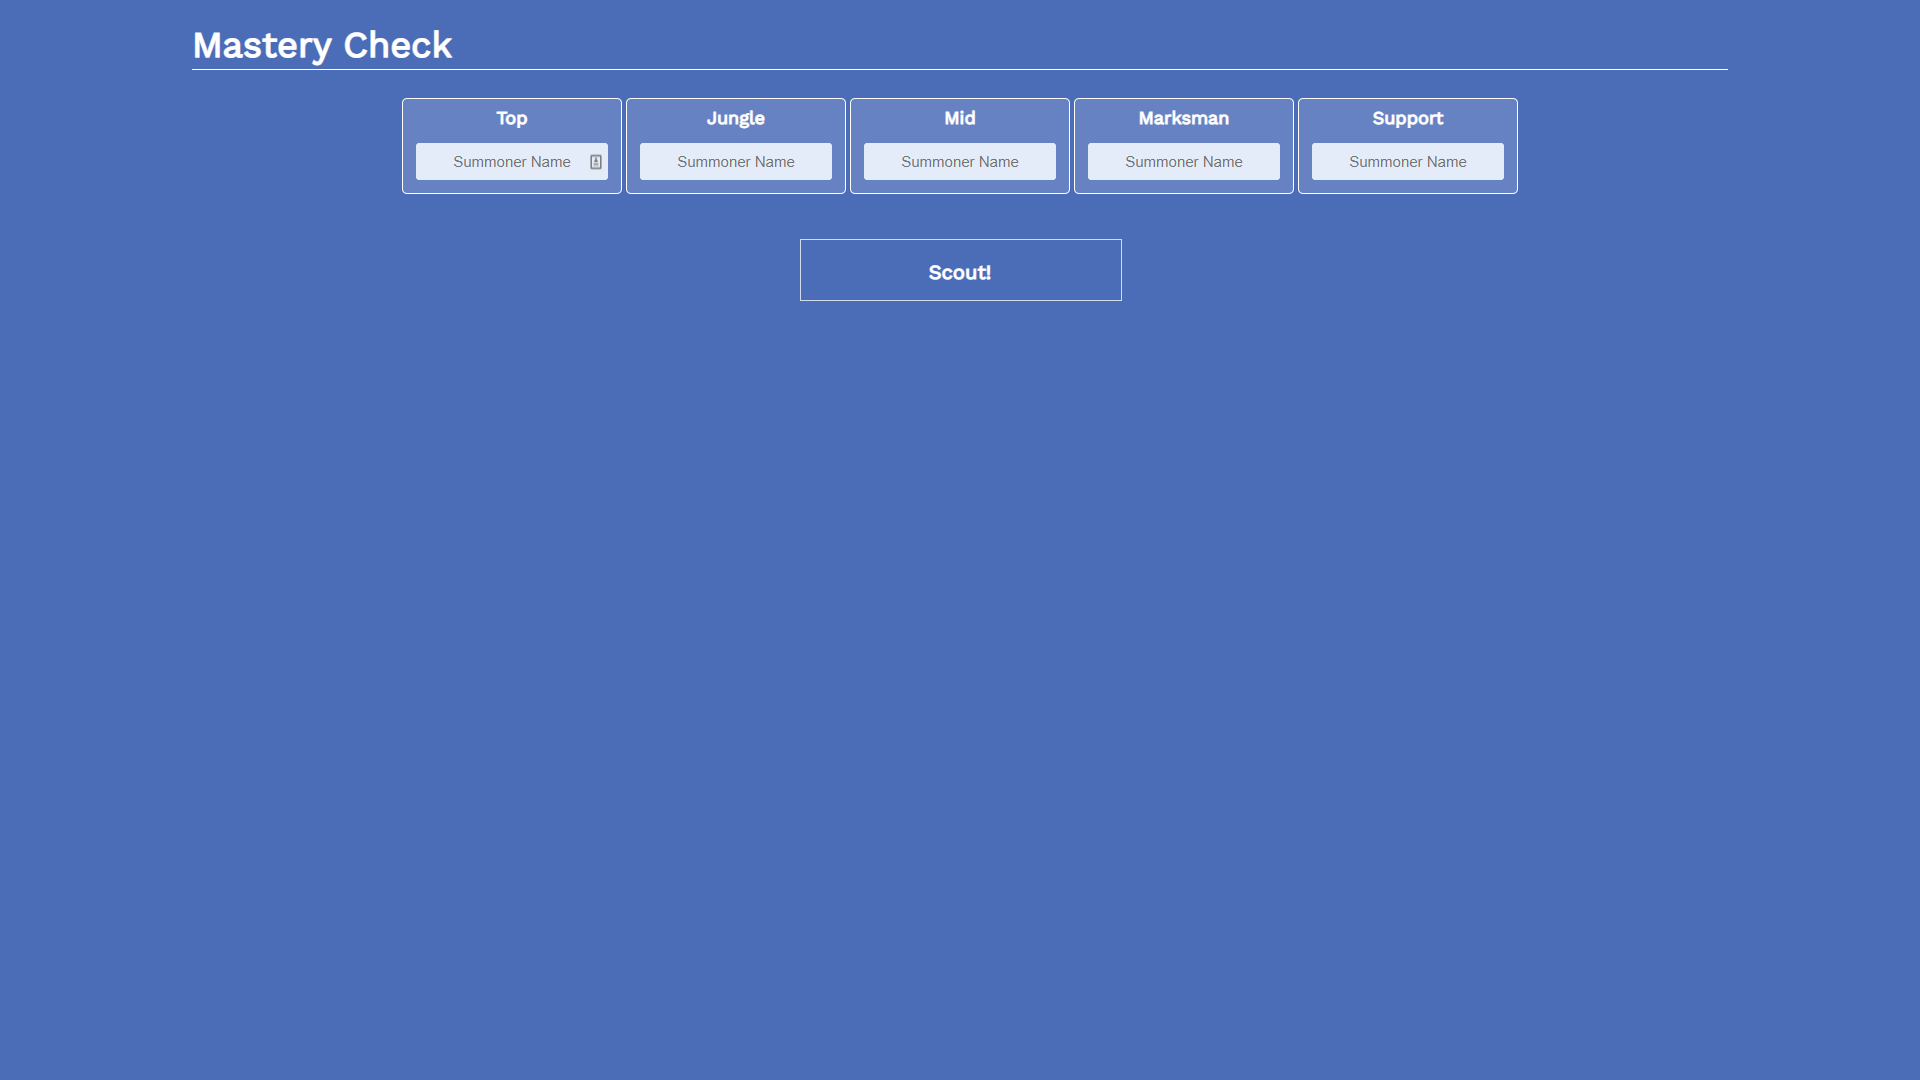
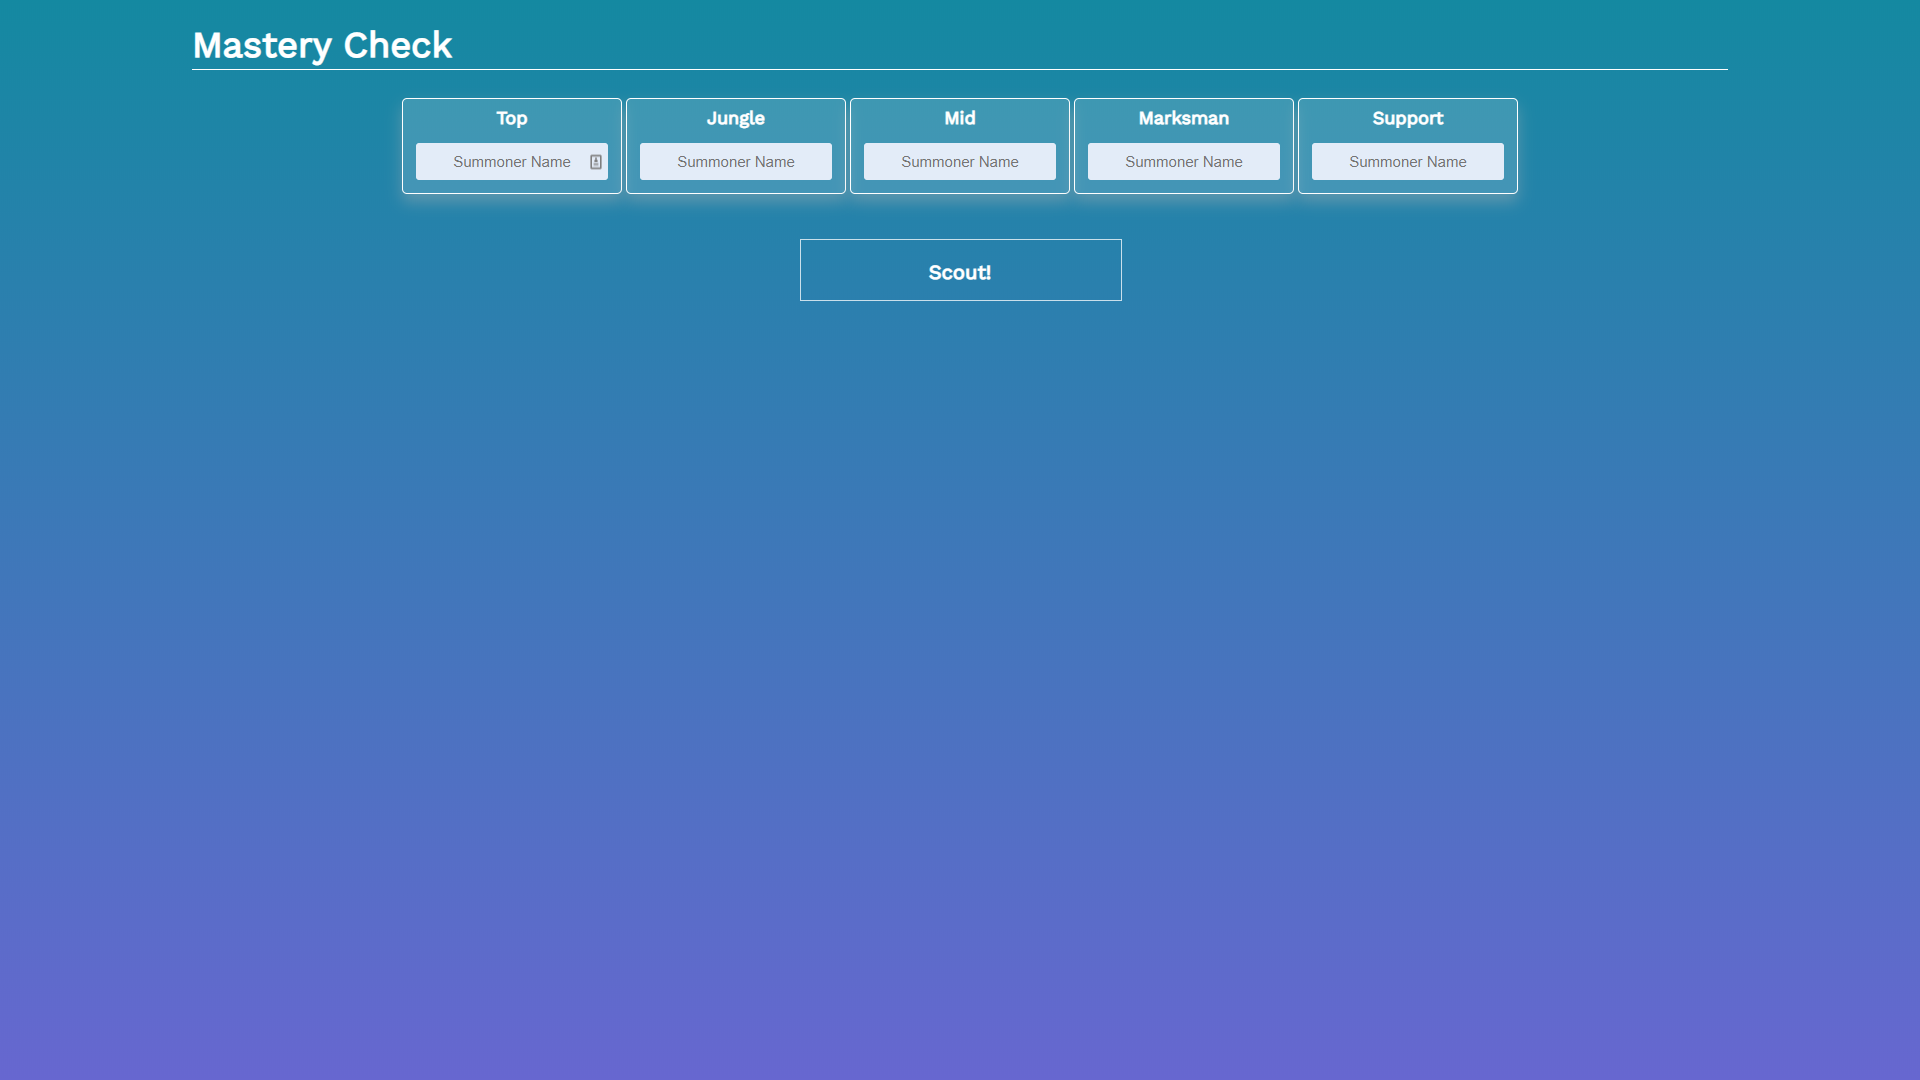
added gif

diff --git a/client/src/styling/poho.module.css b/client/src/styling/poho.module.css
@@ -1,5 +1,16 @@
+html {
+    height: 100%;
+}
 body {
-    background-color:#4b6cb7;
+    background: rgb(103,103,208);
+    background: linear-gradient(0deg, rgba(103,103,208,1) 0%, rgba(20,137,161,1) 100%);
+
+    height: 100%;
+    margin: 0;
+    background-repeat: no-repeat;
+    background-attachment: fixed;
+}
+body {
     border-color: white;
     color: white;
     font-size: 18px;
@@ -59,6 +70,7 @@ thead tr th {
 
 .summoner_table  {
     background-color: rgba(255, 255, 255, 0.15);
+    box-shadow: 0px 8px 15px rgba(181, 181, 181, 0.4);
     border: 1px solid;
     width: 200px;
     border-radius: 5px;

diff --git a/client/src/styling/buttons.scss b/client/src/styling/buttons.scss
@@ -51,10 +51,12 @@ button:focus {
 .btn-two:hover::after {
     animation-name: rotatecw;
     animation-duration: 3s;
+    box-shadow: 0px 8px 15px rgba(181, 181, 181, 0.4);
 }
 .btn-two:hover::before {
     animation-name: rotateccw; 
     animation-duration: 4s;
+    box-shadow: 0px 8px 15px rgba(181, 181, 181, 0.4);
 }
 .btn-two:hover::after, .btn-two:hover::before {
     left: 130px;

diff --git a/README.md b/README.md
@@ -18,6 +18,8 @@ npm start
 ## Screenshots
 
 ![Start Page](/client/readme/home.PNG?raw=true "Start Page")
+![Results Page](/client/readme/results.PNG?raw=true "Results Page")
+![Process](/client/readme/process.gif "Process")
 
 
 ## TODO
